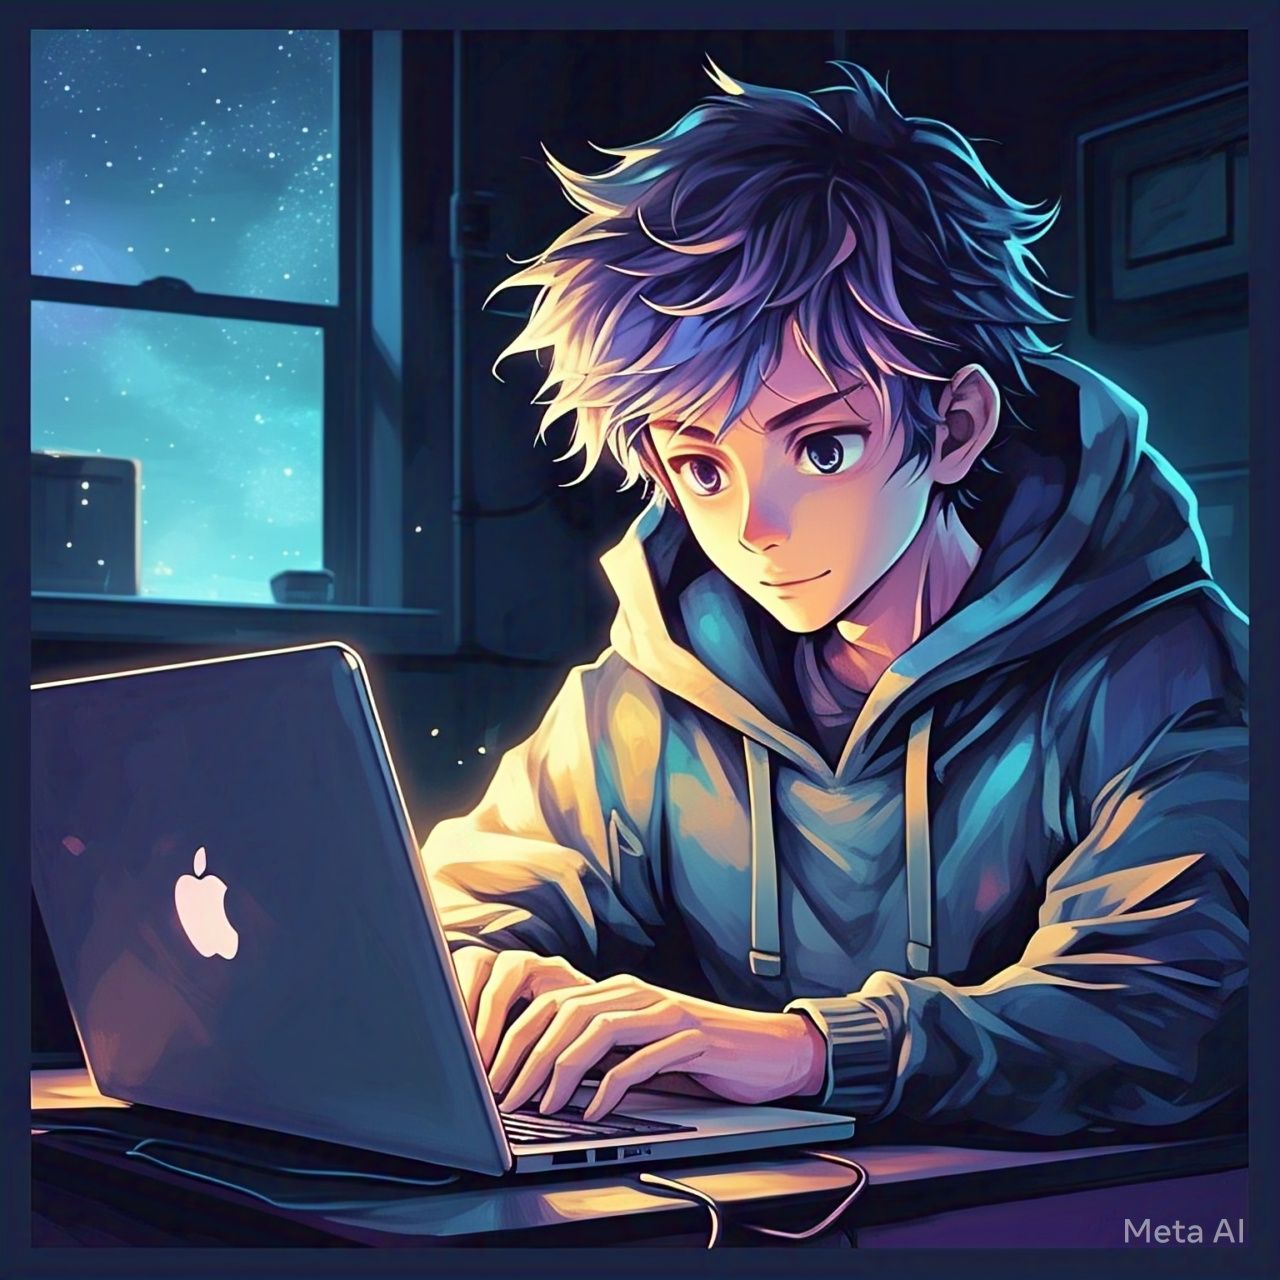
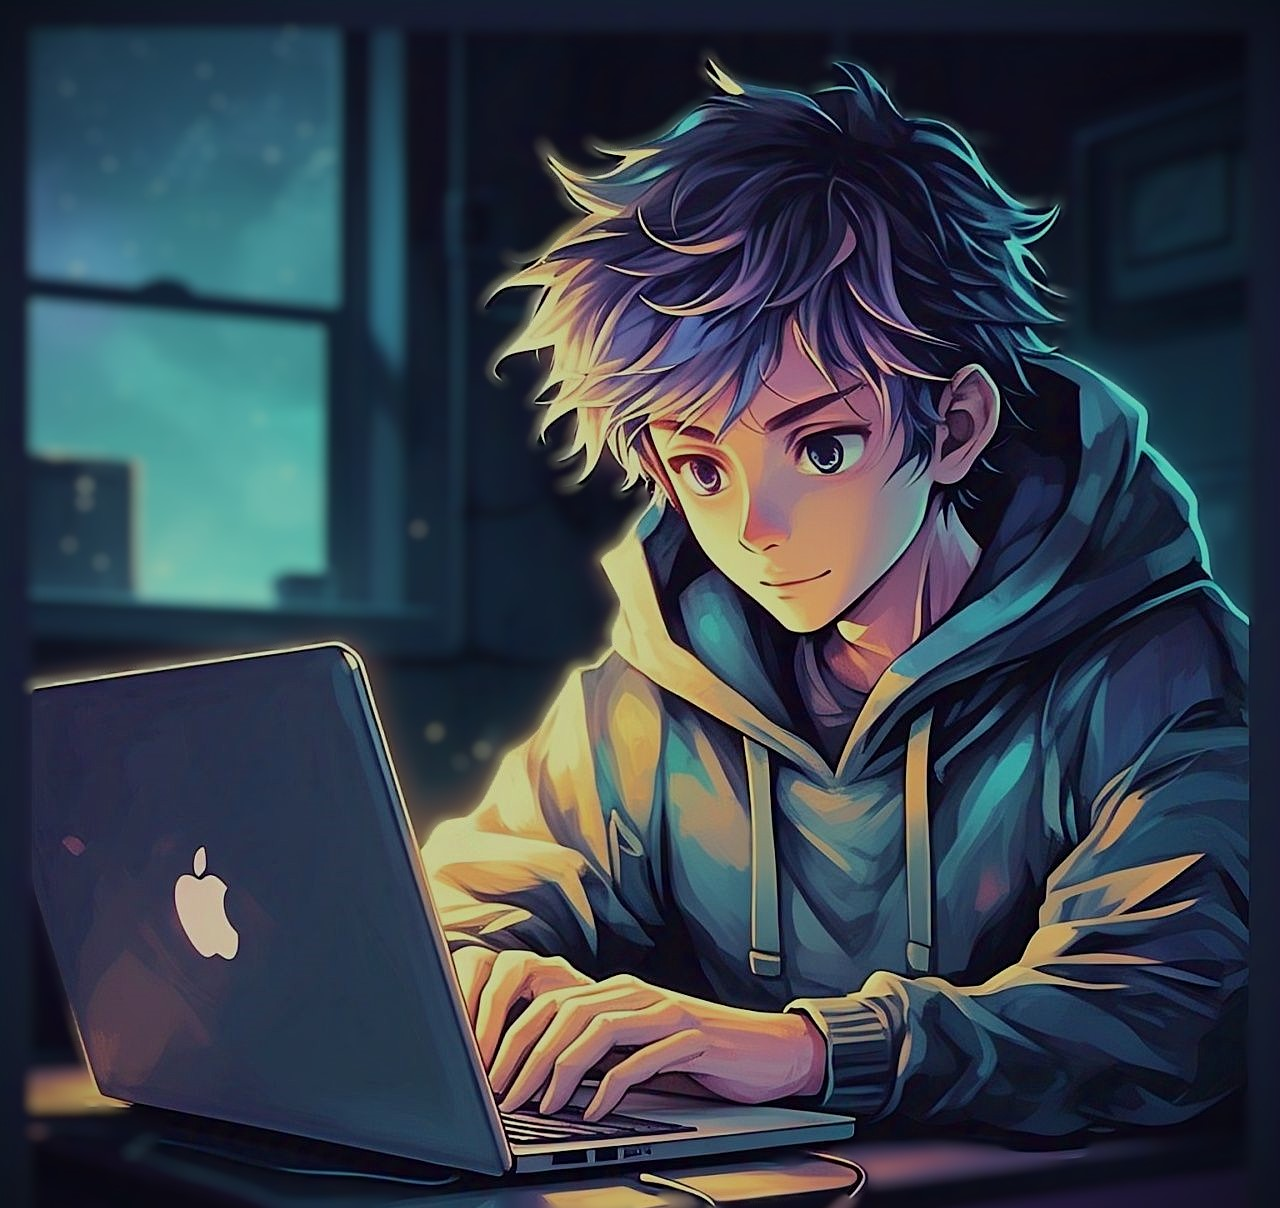
smalldevices bg update

diff --git a/portfolio.css b/portfolio.css
@@ -452,7 +452,7 @@ nav .fa-solid{
 
 @media only screen and (max-width:600px){
     #header{
-        background-image: url("assets/bannerimgc.jpg");
+        background-image: url("assets/bannerimage.jpg");
         background-size: cover;
         background-position: center;
     }
